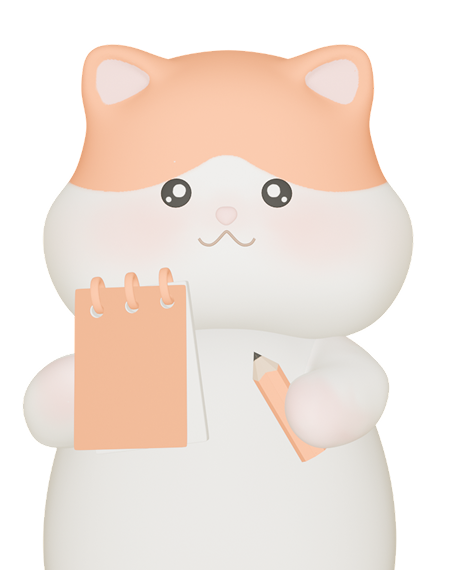
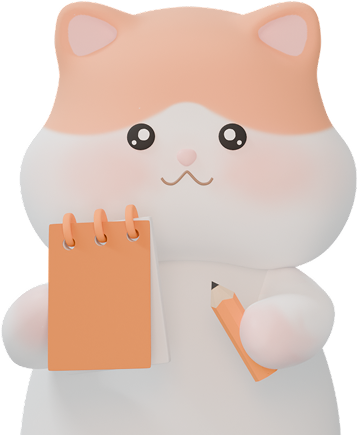
style/#55: 캐러셀 햄스터 캐릭터 스타일 수정

diff --git a/TinyBite/components/main/MainHeader.tsx b/TinyBite/components/main/MainHeader.tsx
@@ -20,11 +20,11 @@ const carouselData: CarouselItem[] = [
     character: require("@/assets/images/main/character.png"),
     backgroundColor: PRIMARY_COLOR,
     greeting1Style: textStyles.title20_B135,
-    greeting2Style: textStyles.title18_SB135,
+    greeting2Style: textStyles.title18_B135,
   },
   {
     greeting1: "저희 앱 어때요?\n의견이 필요해요",
-    greeting2: "\n츄비 눌러서 의견 주기 >",
+    greeting2: "\n츄비 눌러서 의견 주기   >",
     character: require("@/assets/images/main/character-opinion.png"),
     backgroundColor: PRIMARY_COLOR,
     greeting1Style: textStyles.title24_SB135,

diff --git a/TinyBite/components/main/MainHeaderCarousel.tsx b/TinyBite/components/main/MainHeaderCarousel.tsx
@@ -142,12 +142,12 @@ const styles = StyleSheet.create({
   // 캐릭터 이미지 래퍼: 오른쪽 상단에 절대 위치로 배치
   characterWrapper: {
     position: "absolute",
-    right: 3,
-    top: -10,
+    right: 25,
+    top: 3,
   },
   // 캐릭터 이미지 크기
   character: {
-    width: 195,
-    height: 191,
+    width: 156,
+    height: 150,
   },
 });

diff --git a/TinyBite/styles/typography/textStyles.ts b/TinyBite/styles/typography/textStyles.ts
@@ -16,7 +16,10 @@ export const textStyles = {
     ...fontScale.title[20][135],
     fontFamily: "Pretendard-SemiBold",
   },
-
+  title18_B135: {
+    ...fontScale.title[18][135],
+    fontFamily: "Pretendard-Bold",
+  },
   title18_SB135: {
     ...fontScale.title[18][135],
     fontFamily: "Pretendard-SemiBold",
